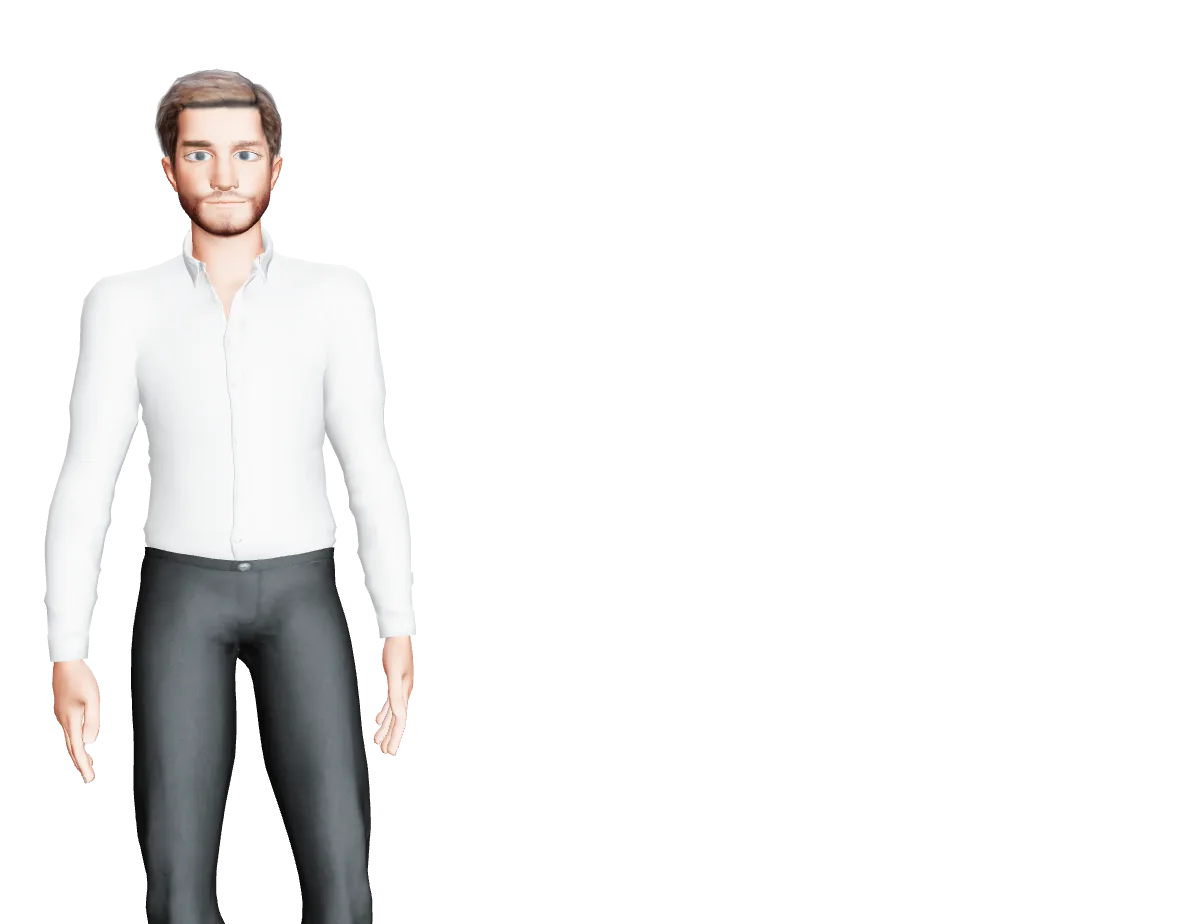
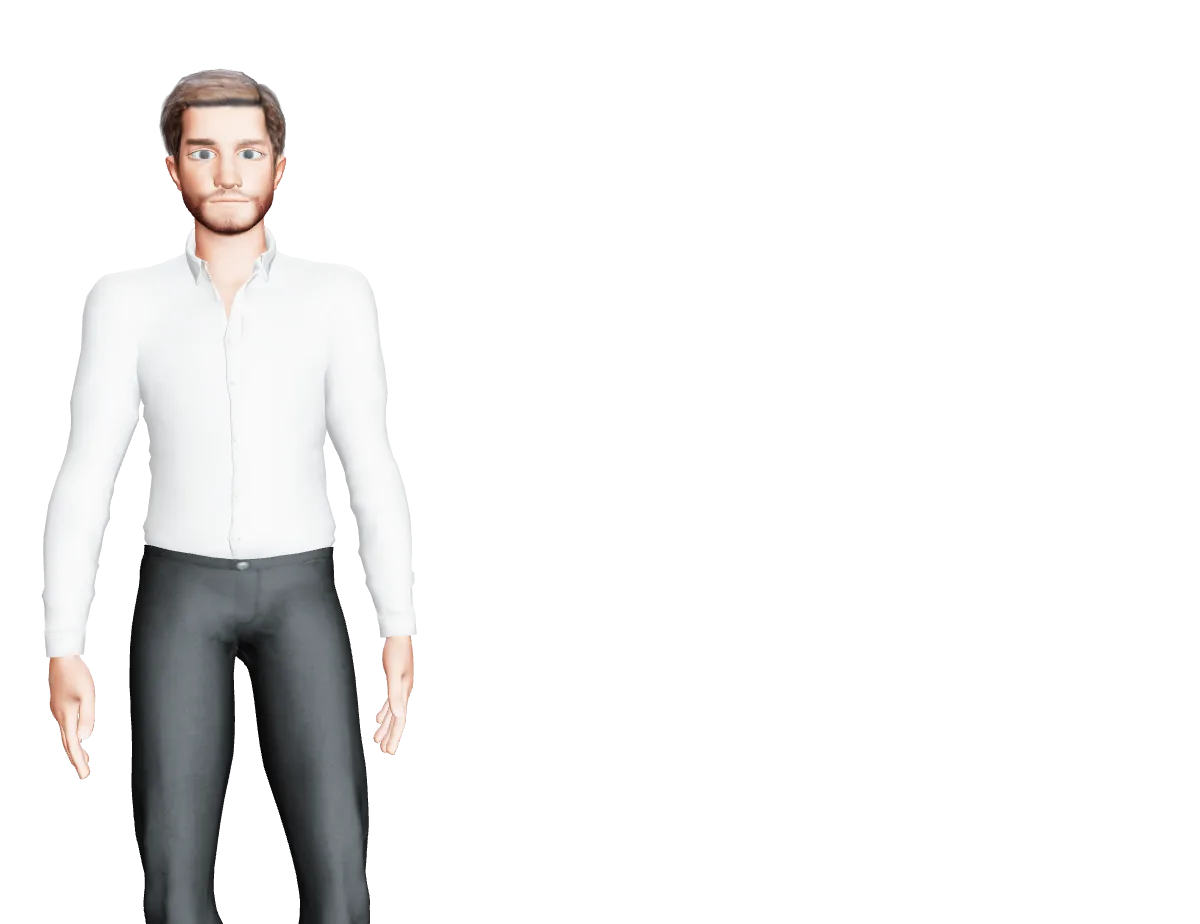
Make every section's poster its first live frame
Each still is now placed in its box by the same framing the canvas uses
(container units and an aspect query, unit-tested at many box sizes), so the
poster and the canvas agree at any width. The idea still had been clipped
by the capture viewport, and the rest were taken mid-idle; all posters are
recaptured at the frame Jake goes live, and the hero still no longer
carries the heart.

diff --git a/src/components/landing/Spot.tsx b/src/components/landing/Spot.tsx
@@ -1,15 +1,14 @@
 import { useEffect, useRef, type CSSProperties, type ReactNode } from "react";
 import { cn } from "@/lib/utils";
 import { registerSpot } from "./stage/host";
-import { SPOTS, type SpotId } from "./stage/spots";
+import { stillCss, type SpotId } from "./stage/spots";
 
 /**
  * A box Jake presents from (V8.3b). The live canvas moves onto whichever spot is most in view (stage/host.ts); every
  * other spot, and every spot on the lite path and under reduced motion, shows its still: Jake in that section's pose,
- * captured from the same stage, faded out at the bottom the same way. A still is captured wider than any box at the
- * same vertical range (spots.ts), so covering the box by height and pinning Jake's x at the spot's `fx` shows exactly
- * what the live canvas would. Overlays (a line card, a control) go in
- * `children` and sit above the canvas (z-20).
+ * captured from the same stage, faded out at the bottom the same way. Each still is placed in the box by the same
+ * framing the canvas uses (spots.ts stillCss, in container units), so at any box size the poster and the first live
+ * frame are the same picture. Overlays (a line card, a control) go in `children` and sit above the canvas (z-20).
  */
 // React 18 passes the attribute through only in lowercase (fetchPriority is a React 19 prop).
 const HIGH = { fetchpriority: "high" } as Record<string, string>;
@@ -39,19 +38,24 @@ export function Spot({
   const ref = useRef<HTMLDivElement>(null);
   useEffect(() => (ref.current ? registerSpot(id, ref.current) : undefined), [id]);
   return (
-    <div ref={ref} data-spot={id} className={cn("landing-spot relative", className)} style={style}>
+    <div ref={ref} data-spot={id} className={cn("landing-spot relative [container-type:size]", className)} style={style}>
+      <style>{stillCss(id)}</style>
       {pool && <div aria-hidden className={cn("glow-pool pointer-events-none absolute", pool)} />}
       {under}
       {still ? (
-        // eslint-disable-next-line @next/next/no-img-element -- a fixed-size box; next/image adds nothing here
-        <img src={still} alt={alt} className={cn("landing-spot-still landing-fade absolute inset-0 h-full w-full object-cover", start && "landing-still-end")} style={{ objectPosition: `${SPOTS[id].fx * 100}% 0` }} decoding="async" loading={priority ? undefined : "lazy"} {...(priority ? HIGH : {})} />
+        <div className={cn("landing-spot-still landing-fade absolute inset-0 overflow-hidden", start && "landing-still-end")}>
+          {/* eslint-disable-next-line @next/next/no-img-element -- placed by container units; next/image adds nothing here */}
+          <img src={still} alt={alt} className={`landing-still-${id} absolute max-w-none`} decoding="async" loading={priority ? undefined : "lazy"} {...(priority ? HIGH : {})} />
+        </div>
       ) : (
         <span role="img" aria-label={alt} className="absolute inset-0" />
       )}
       {start && (
         // The live path's poster (globals.css swaps the two by data-mode; a lazy image that is not displayed never loads).
-        // eslint-disable-next-line @next/next/no-img-element
-        <img src={start} alt="" aria-hidden className="landing-spot-still landing-still-start landing-fade absolute inset-0 h-full w-full object-cover" style={{ objectPosition: `${SPOTS[id].fx * 100}% 0` }} decoding="async" loading="lazy" />
+        <div aria-hidden className="landing-spot-still landing-still-start landing-fade absolute inset-0 overflow-hidden">
+          {/* eslint-disable-next-line @next/next/no-img-element */}
+          <img src={start} alt="" className={`landing-still-${id} absolute max-w-none`} decoding="async" loading="lazy" />
+        </div>
       )}
       {children}
     </div>

diff --git a/src/components/landing/stage/spots.ts b/src/components/landing/stage/spots.ts
@@ -90,6 +90,48 @@ export function frustumFor(spot: SpotFraming, aspect: number): Frustum {
   return { left, right: left + width, top, bottom };
 }
 
+/** The box aspect each spot's stills are captured at (eval scripts/stills.cjs): the fixed-aspect spots at theirs. */
+export const CAPTURE_ASPECT: Record<SpotId, number> = {
+  hero: 1, idea: 1, ideas: BOARD_ASPECT, picture: BOARD_ASPECT, model: 1.1, moves: 1, close: 1,
+};
+
+const n = (v: number) => +v.toFixed(4);
+
+/**
+ * Where a spot's still goes in its box, as CSS for `.landing-still-<id>`, so the still and the live canvas show every
+ * world point at the same place in a box of any size: the poster and the first live frame are the same picture (Hmz).
+ *
+ * The still is the spot's view captured at CAPTURE_ASPECT; the canvas shows frustumFor(box aspect). Both are crops of
+ * one view from one eye, so one is the other scaled and moved. In a box at least as wide as `need`, the vertical
+ * range is the spot's own (the still is the box's height) and the horizontal placement follows frustumFor's clamp, in
+ * container units. In a narrower box the range grows to fit `need` across the width (an @container aspect query).
+ */
+export function stillCss(id: SpotId): string {
+  const spot = SPOTS[id];
+  const d = EYE[2] - PLANE_Z;
+  const cap = frustumFor(spot, CAPTURE_ASPECT[id]);
+  const capW = cap.right - cap.left, capV = cap.top - cap.bottom;
+  const top = (spot.top - EYE[1]) / d, V = top - (spot.bottom - EYE[1]) / d;
+  const x = (spot.x - EYE[0]) / d;
+  const k = 100 / V; // tangent units to cqh, while the vertical range is the spot's own
+  const sel = `.landing-still-${id}`;
+  let left: string;
+  if (spot.need) {
+    const n0 = (spot.need[0] - EYE[0]) / d, n1 = (spot.need[1] - EYE[0]) / d;
+    left = `calc(${n(cap.left * k)}cqh - clamp(${n(n1 * k)}cqh - 100cqw, ${n(x * k)}cqh - ${n(spot.fx * 100)}cqw, ${n(n0 * k)}cqh))`;
+  } else {
+    left = `calc(${n((cap.left - x) * k)}cqh + ${n(spot.fx * 100)}cqw)`;
+  }
+  let css = `${sel}{left:${left};top:${n((top - cap.top) * k)}cqh;width:${n(capW * k)}cqh;height:${n(capV * k)}cqh}`;
+  if (spot.need) {
+    const n0 = (spot.need[0] - EYE[0]) / d, needW = (spot.need[1] - spot.need[0]) / d;
+    const kw = 100 / needW; // tangent units to cqw, once the width is the need's
+    const ratio = Math.round((needW / V) * 1000);
+    css += `@container (max-aspect-ratio: ${ratio}/1000){${sel}{left:${n((cap.left - n0) * kw)}cqw;top:${n((top - cap.top) * kw)}cqw;width:${n(capW * kw)}cqw;height:${n(capV * kw)}cqw}}`;
+  }
+  return css;
+}
+
 /** Where a world point lands in a spot's box, as fractions of its width and height (0,0 = top left). */
 export function project(f: Frustum, p: V3): { u: number; v: number } {
   const d = EYE[2] - p[2];

diff --git a/src/components/landing/stage/spots.test.ts b/src/components/landing/stage/spots.test.ts
@@ -1,5 +1,5 @@
 import { describe, expect, it } from "vitest";
-import { EYE, SPOTS, TEACHER, frustumFor, pickSpot, project, type SpotId } from "./spots";
+import { CAPTURE_ASPECT, EYE, SPOTS, TEACHER, frustumFor, pickSpot, project, stillCss, type SpotId, type V3 } from "./spots";
 
 describe("frustumFor", () => {
   it("shows the spot's vertical range edge to edge", () => {
@@ -69,5 +69,41 @@ describe("frustumFor with a reach to keep in frame", () => {
     const f = frustumFor(SPOTS.hero, 0.6);
     expect(f.top * d + EYE[1]).toBeCloseTo(SPOTS.hero.top);
     expect(f.bottom * d + EYE[1]).toBeLessThan(SPOTS.hero.bottom);
+  });
+});
+
+describe("stillCss: the still and the canvas agree at any box size", () => {
+  /** Evaluates the CSS for a box (container units, clamp, the @container branch) to px. */
+  function rectOf(id: SpotId, W: number, H: number) {
+    const css = stillCss(id);
+    const [base, narrow] = css.split("@container");
+    let rule = base;
+    if (narrow) {
+      const [num, den] = narrow.match(/max-aspect-ratio: (\d+)\/(\d+)/)!.slice(1).map(Number);
+      if (W / H <= num / den) rule = narrow;
+    }
+    const prop = (name: string) => {
+      const expr = rule.match(new RegExp(`${name}:([^;}]+)`))![1]
+        .replace(/(-?[\d.]+)cqh/g, `($1*${H}/100)`).replace(/(-?[\d.]+)cqw/g, `($1*${W}/100)`).replace(/100cqw/g, `${W}`);
+      const clamp = (a: number, b: number, c: number) => Math.min(Math.max(b, a), c);
+      const calc = (v: number) => v;
+      return Function("clamp", "calc", `return ${expr}`)(clamp, calc) as number;
+    };
+    return { left: prop("left"), top: prop("top"), width: prop("width"), height: prop("height") };
+  }
+
+  const ids = Object.keys(SPOTS) as SpotId[];
+  const boxes: [number, number][] = [[300, 470], [413, 600], [464, 600], [530, 600], [600, 600], [707, 544], [618, 562], [360, 470]];
+  it.each(ids)("%s: a world point lands on the same pixel in both", (id) => {
+    const cap = frustumFor(SPOTS[id], CAPTURE_ASPECT[id]);
+    for (const [W, H] of boxes) {
+      const live = frustumFor(SPOTS[id], W / H);
+      const r = rectOf(id, W, H);
+      for (const p of [[-1, 0.5, -3], [-1.4, -0.3, -3], [-0.6, 0.8, -3], [0, 0, -3]] as V3[]) {
+        const s = project(cap, p), b = project(live, p);
+        expect(r.left + s.u * r.width).toBeCloseTo(b.u * W, 1);
+        expect(r.top + s.v * r.height).toBeCloseTo(b.v * H, 1);
+      }
+    }
   });
 });
